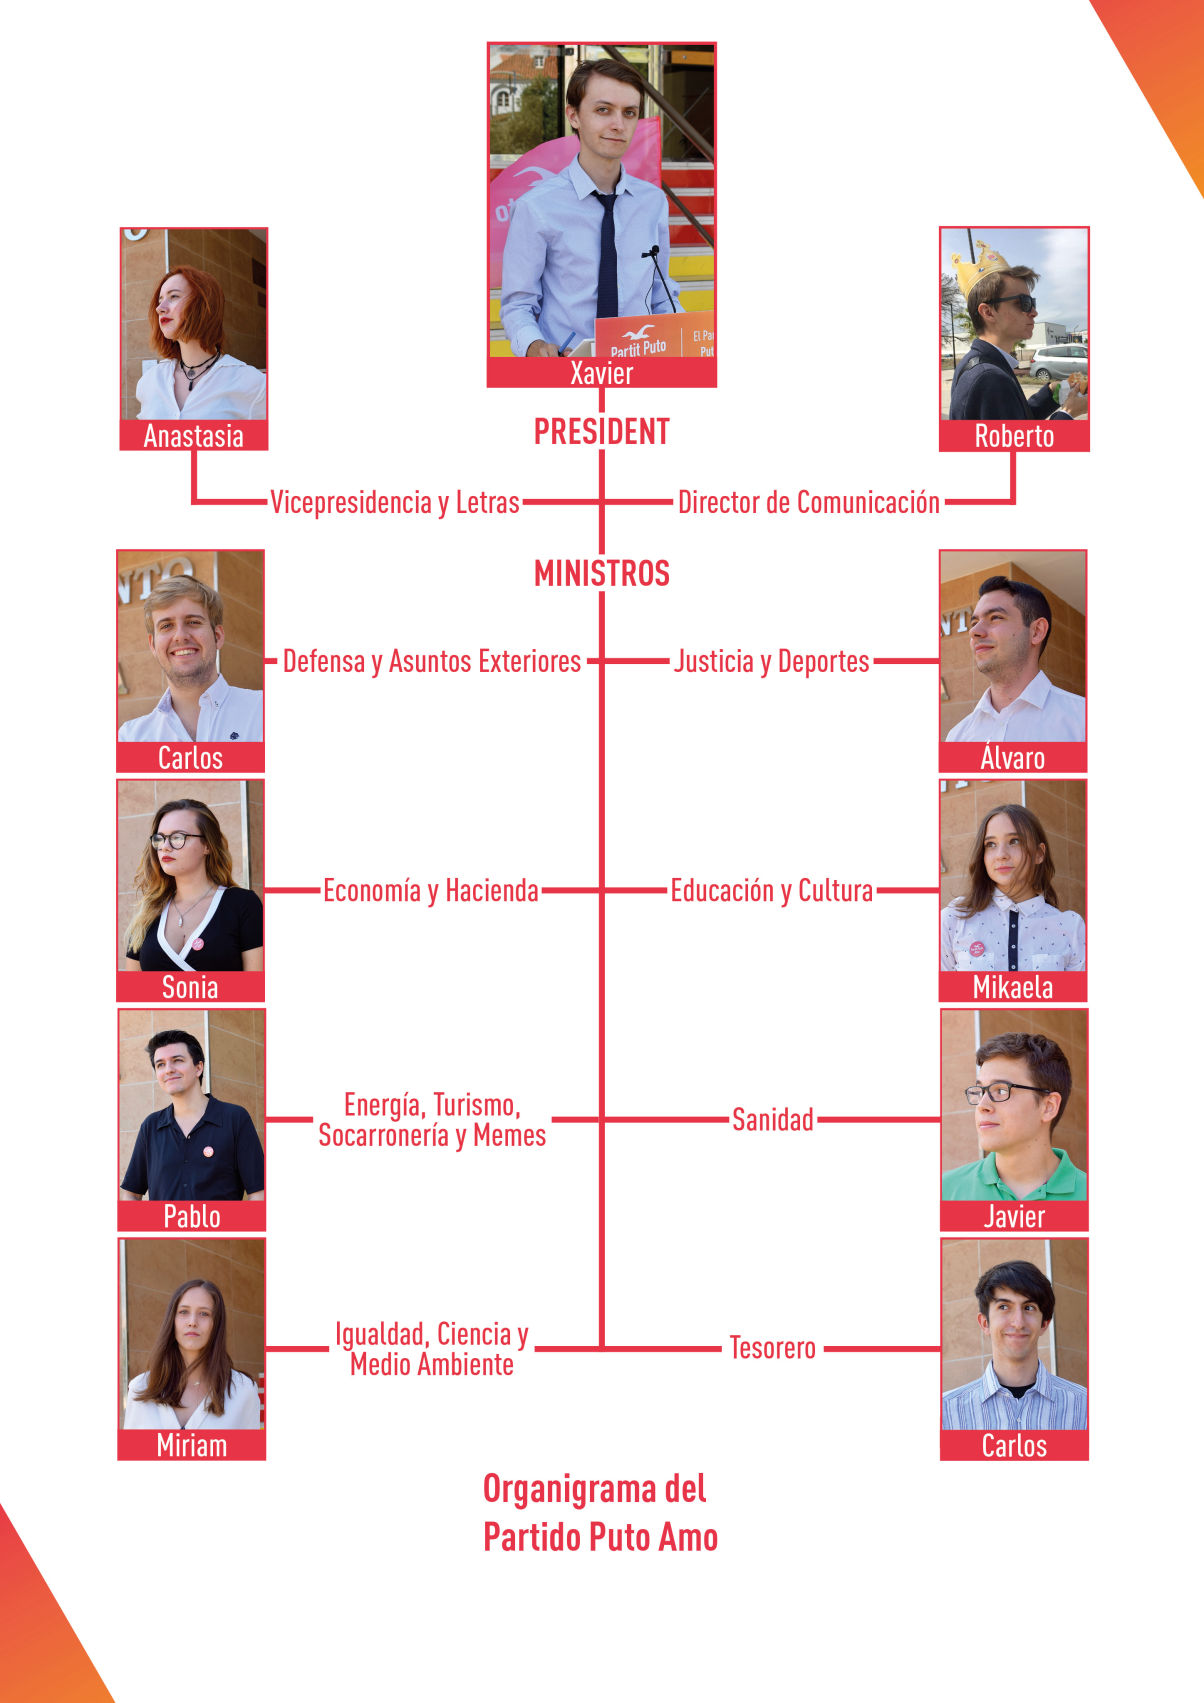
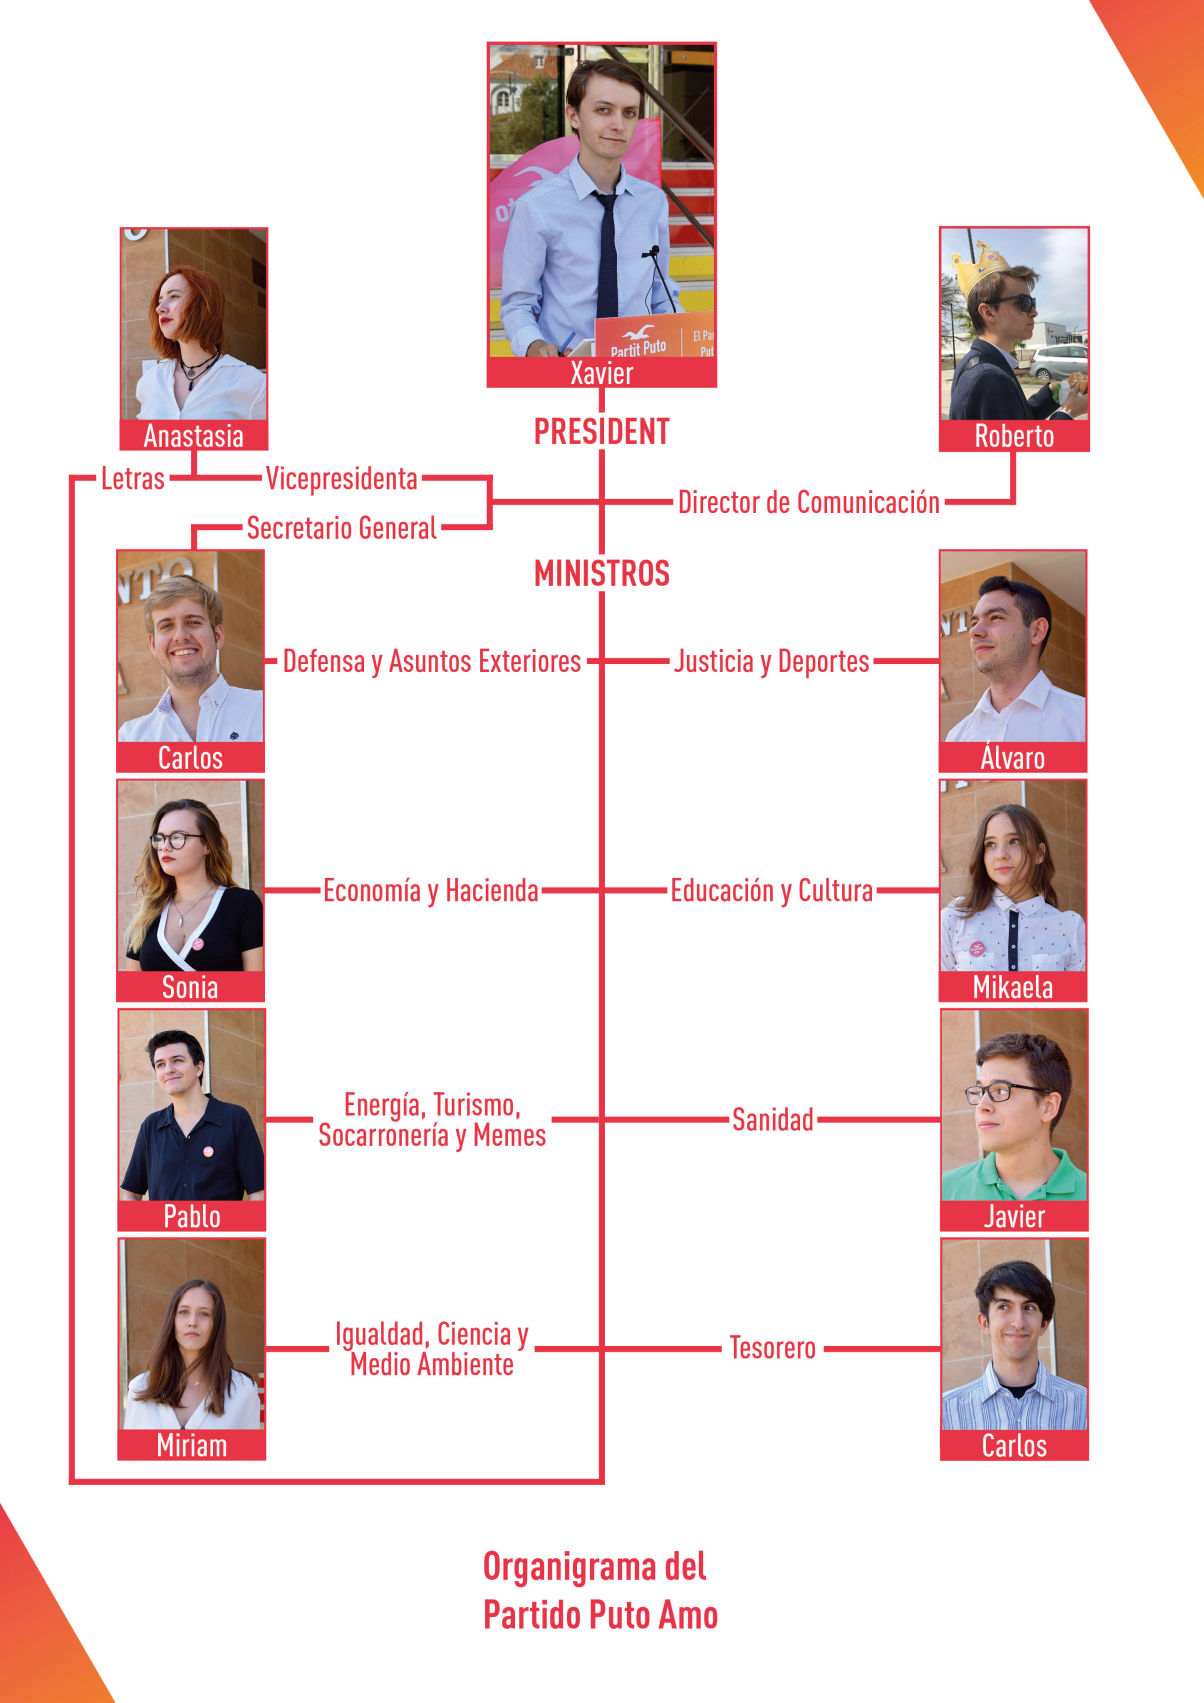
create github pages

Changed region(s): [[0.0307, 0.2801, 0.6146, 0.9648]]

diff --git a/gobierno.html b/gobierno.html
@@ -41,7 +41,42 @@
 <!-- /Google Analytics -->
 
 
-  <section class="mbr-section content5 cid-qQsmZcQar4" id="content5-20">
+  <section class="menu cid-qOwYE1datV" once="menu" id="menu2-i">
+
+    
+
+    <nav class="navbar navbar-expand beta-menu navbar-dropdown align-items-center navbar-fixed-top navbar-toggleable-sm">
+        <button class="navbar-toggler navbar-toggler-right" type="button" data-toggle="collapse" data-target="#navbarSupportedContent" aria-controls="navbarSupportedContent" aria-expanded="false" aria-label="Toggle navigation">
+            <div class="hamburger">
+                <span></span>
+                <span></span>
+                <span></span>
+                <span></span>
+            </div>
+        </button>
+        <div class="menu-logo">
+            <div class="navbar-brand">
+                <span class="navbar-logo">
+                    <a href="index.html">
+                        <img src="assets/images/logo-ppa-web.svg" alt="Mobirise" title="" style="height: 4.3rem;">
+                    </a>
+                </span>
+                
+            </div>
+        </div>
+        <div class="collapse navbar-collapse" id="navbarSupportedContent">
+            <ul class="navbar-nav nav-dropdown nav-right" data-app-modern-menu="true"><li class="nav-item">
+                    <a class="nav-link link text-black display-4" href="bopa.html">Boletín Oficial de<br>los Putos Amos</a>
+                </li><li class="nav-item"><a class="nav-link link text-black display-4" href="gobierno.html">Equipo de<br>Gobierno</a></li><li class="nav-item"><a class="nav-link link text-black display-4" href="prensa.html">Sala de<br>Prensa</a></li><li class="nav-item"><a class="nav-link link text-black display-4" href="militancia.html">Zona del&nbsp;<br>Militante</a></li>
+                <li class="nav-item">
+                    <a class="nav-link link text-black display-4" href="materiales.html">Material de<br>Campaña</a>
+                </li></ul>
+            
+        </div>
+    </nav>
+</section>
+
+<section class="engine"><a href="https://mobiri.se/s">free bootstrap themes</a></section><section class="mbr-section content5 cid-qQsmZcQar4" id="content5-20">
 
     
 
@@ -59,7 +94,7 @@
     </div>
 </section>
 
-<section class="engine"><a href="https://mobiri.se/x">free css templates</a></section><section class="header1 cid-qZBcBGUxmi mbr-parallax-background" id="header1-4a">
+<section class="header1 cid-qZBcBGUxmi mbr-parallax-background" id="header1-4a">
 
     
 
@@ -208,9 +243,9 @@
                     <img src="assets/images/fotos-de-la-web-con-marco2-844x1268.png" alt="El atractivo Carlos" title="El atractivo Carlos">
                 </div>
                 <div class=" align-left aside-content">
-                    <h2 class="mbr-title pt-2 mbr-fonts-style display-5">Carlos, el de Defensa y Exteriores</h2>
+                    <h2 class="mbr-title pt-2 mbr-fonts-style display-5">Carlos, el Secretario General</h2>
                     <div class="mbr-section-text">
-                        <p class="mbr-text mb-5 pt-3 mbr-light mbr-fonts-style display-2">Carlos es el Ministro de Defensa y Asuntos Exteriores, te jode la vida con su sonrisa diabólica, ya se han cagado en los pantalones con él los Portugueses y los de Perejil.</p>
+                        <p class="mbr-text mb-5 pt-3 mbr-light mbr-fonts-style display-2">Carlos es el Secretario General y Ministro de Defensa y Asuntos Exteriores del Partido, junto con la Vicepresidenta, es una de las personas de mayor confianza del President.</p>
                     </div>
 
                     <div class="block-content">
@@ -764,7 +799,7 @@
                     <div data-form-alert="" hidden="" class="align-center">¡Gracias! En breves momentos recivirás un email con virus para mantenerte monitorizado.</div>
 
                     <form class="form-inline" action="https://mobirise.com/" method="post" data-form-title="Mobirise Form">
[2 lines of base64/hex data omitted]
                         <div class="form-group">
                             <input type="email" class="form-control input-sm input-inverse my-2" name="email" required="" data-form-field="Email" placeholder="Email" id="email-footer3-u">
                         </div>
@@ -815,41 +850,6 @@
             </div>
         </div>
     </div>
-</section>
-
-<section class="menu cid-qOwYE1datV" once="menu" id="menu2-i">
-
-    
-
-    <nav class="navbar navbar-expand beta-menu navbar-dropdown align-items-center navbar-fixed-top navbar-toggleable-sm">
-        <button class="navbar-toggler navbar-toggler-right" type="button" data-toggle="collapse" data-target="#navbarSupportedContent" aria-controls="navbarSupportedContent" aria-expanded="false" aria-label="Toggle navigation">
-            <div class="hamburger">
-                <span></span>
-                <span></span>
-                <span></span>
-                <span></span>
-            </div>
-        </button>
-        <div class="menu-logo">
-            <div class="navbar-brand">
-                <span class="navbar-logo">
-                    <a href="index.html">
-                        <img src="assets/images/logo-ppa-web.svg" alt="Mobirise" title="" style="height: 4.3rem;">
-                    </a>
-                </span>
-                
-            </div>
-        </div>
-        <div class="collapse navbar-collapse" id="navbarSupportedContent">
-            <ul class="navbar-nav nav-dropdown nav-right" data-app-modern-menu="true"><li class="nav-item">
-                    <a class="nav-link link text-black display-4" href="bopa.html">Boletín Oficial de<br>los Putos Amos</a>
-                </li><li class="nav-item"><a class="nav-link link text-black display-4" href="gobierno.html">Equipo de<br>Gobierno</a></li><li class="nav-item"><a class="nav-link link text-black display-4" href="prensa.html">Sala de<br>Prensa</a></li><li class="nav-item"><a class="nav-link link text-black display-4" href="militancia.html">Zona del&nbsp;<br>Militante</a></li>
-                <li class="nav-item">
-                    <a class="nav-link link text-black display-4" href="materiales.html">Material de<br>Campaña</a>
-                </li></ul>
-            
-        </div>
-    </nav>
 </section>
 
 

diff --git a/militancia.html b/militancia.html
@@ -59,7 +59,7 @@
     </div>
 </section>
 
-<section class="engine"><a href="https://mobiri.se/v">html templates</a></section><section class="cid-qOxHEQH7OB" id="header15-g">
+<section class="engine"><a href="https://mobiri.se/n">simple website templates</a></section><section class="cid-qOxHEQH7OB" id="header15-g">
 
     
 
@@ -75,7 +75,7 @@
     <div class="form-container">
         <div class="media-container-column" data-form-type="formoid">
             <div data-form-alert="" hidden="" class="align-center">¡Gracias! En breve recibirás un email con un virus para tenerte monitorizado.</div>
[2 lines of base64/hex data omitted]
                 <div data-for="name">
                     <div class="form-group">
                         <input type="text" class="form-control px-3" name="name" data-form-field="Name" placeholder="Nombre y apellido" required="" id="name-header15-g">
@@ -355,7 +355,7 @@
                     <div data-form-alert="" hidden="" class="align-center">¡Gracias! En breves momentos recivirás un email con virus para mantenerte monitorizado.</div>
 
                     <form class="form-inline" action="https://mobirise.com/" method="post" data-form-title="Mobirise Form">
[2 lines of base64/hex data omitted]
                         <div class="form-group">
                             <input type="email" class="form-control input-sm input-inverse my-2" name="email" required="" data-form-field="Email" placeholder="Email" id="email-footer3-r">
                         </div>

diff --git a/prensa.html b/prensa.html
@@ -62,7 +62,7 @@
     </div>
 </section>
 
-<section class="engine"><a href="https://mobiri.se/l">free site templates</a></section><section class="features2 cid-qQvIiY2Ibr" id="features2-24">
+<section class="engine"><a href="https://mobiri.se/f">easy site creator</a></section><section class="features2 cid-qQvIiY2Ibr" id="features2-24">
 
     
 
@@ -139,7 +139,7 @@
     </div>
 </section>
 
-<section class="mbr-social-feed loading" id="feed-2v" data-facebook="" data-twitter="PartidoPutoAmo" data-google="" data-posts="3" data-youtube="" data-rv-view="144" style="background-color: rgb(255, 255, 255); padding-top: 40px; padding-bottom: 40px;">
+<section class="mbr-social-feed loading" id="feed-2v" data-facebook="" data-twitter="PartidoPutoAmo" data-google="" data-posts="3" data-youtube="" data-rv-view="204" style="background-color: rgb(255, 255, 255); padding-top: 40px; padding-bottom: 40px;">
     
     <img class="social-feed-container-loading" alt="" src="assets/images/loading.svg">
     <div class="social-feed-container">
@@ -415,7 +415,7 @@
                     <div data-form-alert="" hidden="" class="align-center">¡Gracias! En breves momentos recivirás un email con virus para mantenerte monitorizado.</div>
 
                     <form class="form-inline" action="https://mobirise.com/" method="post" data-form-title="Mobirise Form">
[2 lines of base64/hex data omitted]
                         <div class="form-group">
                             <input type="email" class="form-control input-sm input-inverse my-2" name="email" required="" data-form-field="Email" placeholder="Email" id="email-footer3-1b">
                         </div>

diff --git a/bopa.html b/bopa.html
@@ -75,7 +75,7 @@
     </nav>
 </section>
 
-<section class="engine"><a href="https://mobiri.se/l">free website templates</a></section><section class="mbr-section content5 cid-qXM3qCaUIp" id="content5-2z">
+<section class="engine"><a href="https://mobiri.se/f">simple site creator</a></section><section class="mbr-section content5 cid-qXM3qCaUIp" id="content5-2z">
 
     
 
@@ -373,7 +373,7 @@ El presente nombramiento se da como consecuencia de la decisión adoptada por el
                     <div data-form-alert="" hidden="" class="align-center">¡Gracias! En breves momentos recivirás un email con virus para mantenerte monitorizado.</div>
 
                     <form class="form-inline" action="https://mobirise.com/" method="post" data-form-title="Mobirise Form">
[2 lines of base64/hex data omitted]
                         <div class="form-group">
                             <input type="email" class="form-control input-sm input-inverse my-2" name="email" required="" data-form-field="Email" placeholder="Email" id="email-footer3-30">
                         </div>

diff --git a/index.html b/index.html
@@ -80,7 +80,7 @@
     </nav>
 </section>
 
-<section class="engine"><a href="https://mobiri.se/u">bootstrap website templates</a></section><section class="mbr-section content5 cid-r0K3M3Mb84" id="content5-4y">
+<section class="engine"><a href="https://mobiri.se/o">free portfolio site templates</a></section><section class="mbr-section content5 cid-r0K3M3Mb84" id="content5-4y">
 
     
 
@@ -302,7 +302,7 @@
                     <div data-form-alert="" hidden="" class="align-center">¡Gracias! En breves momentos recivirás un email con virus para mantenerte monitorizado.</div>
 
                     <form class="form-inline" action="https://mobirise.com/" method="post" data-form-title="Mobirise Form">
[2 lines of base64/hex data omitted]
                         <div class="form-group">
                             <input type="email" class="form-control input-sm input-inverse my-2" name="email" required="" data-form-field="Email" placeholder="Email" id="email-footer3-1k">
                         </div>

diff --git a/agenda.html b/agenda.html
@@ -58,7 +58,7 @@
     </div>
 </section>
 
-<section class="engine"><a href="https://mobiri.se/n">free simple web templates</a></section><section class="menu cid-qYOmnczOQ1" once="menu" id="menu2-3s">
+<section class="engine"><a href="https://mobiri.se/h">how to create your own web page for free</a></section><section class="menu cid-qYOmnczOQ1" once="menu" id="menu2-3s">
 
     
 
@@ -277,7 +277,7 @@
                     <div data-form-alert="" hidden="" class="align-center">¡Gracias! En breves momentos recivirás un email con virus para mantenerte monitorizado.</div>
 
                     <form class="form-inline" action="https://mobirise.com/" method="post" data-form-title="Mobirise Form">
[2 lines of base64/hex data omitted]
                         <div class="form-group">
                             <input type="email" class="form-control input-sm input-inverse my-2" name="email" required="" data-form-field="Email" placeholder="Email" id="email-footer3-3u">
                         </div>

diff --git a/aviso_legal.html b/aviso_legal.html
@@ -58,7 +58,7 @@
     </div>
 </section>
 
-<section class="engine"><a href="https://mobiri.se/g">build a site for free</a></section><section class="mbr-section content5 cid-qQxyMZC8rJ" id="content5-2b">
+<section class="engine"><a href="https://mobiri.se/g">build your own site for free</a></section><section class="mbr-section content5 cid-qQxyMZC8rJ" id="content5-2b">
 
     
 
@@ -308,7 +308,7 @@
                     <div data-form-alert="" hidden="" class="align-center">¡Gracias! En breves momentos recivirás un email con virus para mantenerte monitorizado.</div>
 
                     <form class="form-inline" action="https://mobirise.com/" method="post" data-form-title="Mobirise Form">
[2 lines of base64/hex data omitted]
                         <div class="form-group">
                             <input type="email" class="form-control input-sm input-inverse my-2" name="email" required="" data-form-field="Email" placeholder="Email" id="email-footer3-2d">
                         </div>

diff --git a/materiales.html b/materiales.html
@@ -59,7 +59,7 @@
     </div>
 </section>
 
-<section class="engine"><a href="https://mobiri.se/d">web maker</a></section><section class="features14 cid-qQxkzLEna4" id="features14-26">
+<section class="engine"><a href="https://mobiri.se/k">how to develop free website</a></section><section class="features14 cid-qQxkzLEna4" id="features14-26">
     
     
 
@@ -364,7 +364,7 @@
                     <div data-form-alert="" hidden="" class="align-center">¡Gracias! En breves momentos recivirás un email con virus para mantenerte monitorizado.</div>
 
                     <form class="form-inline" action="https://mobirise.com/" method="post" data-form-title="Mobirise Form">
[2 lines of base64/hex data omitted]
                         <div class="form-group">
                             <input type="email" class="form-control input-sm input-inverse my-2" name="email" required="" data-form-field="Email" placeholder="Email" id="email-footer3-22">
                         </div>
